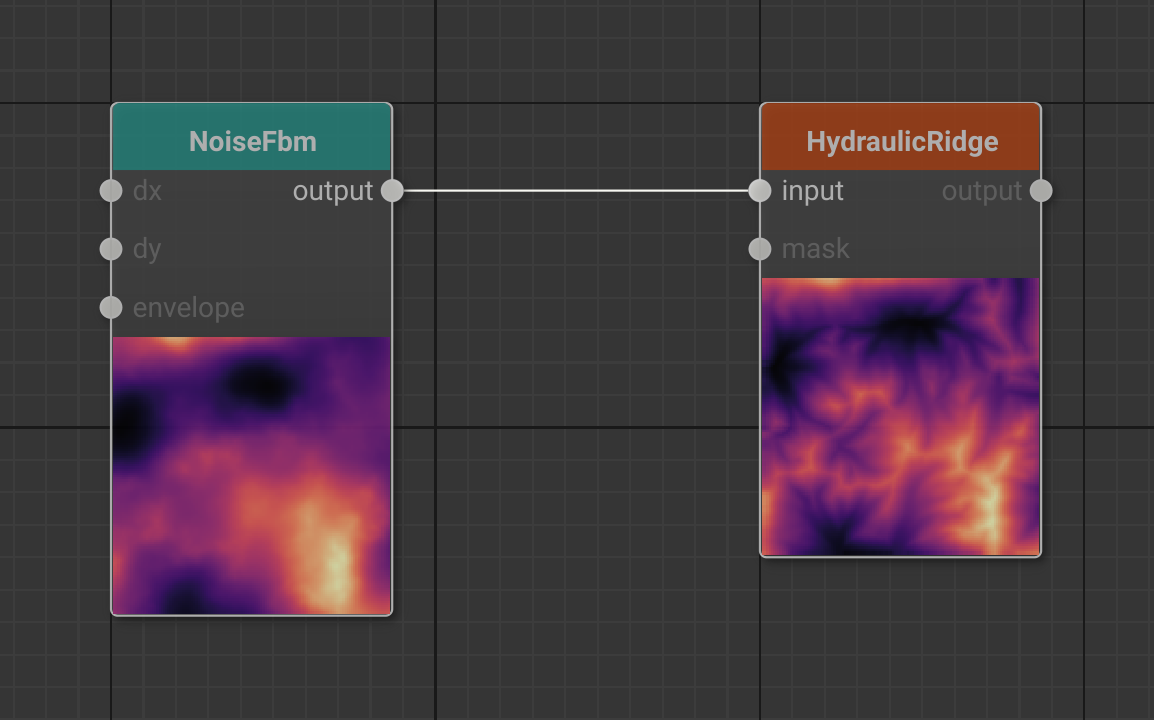
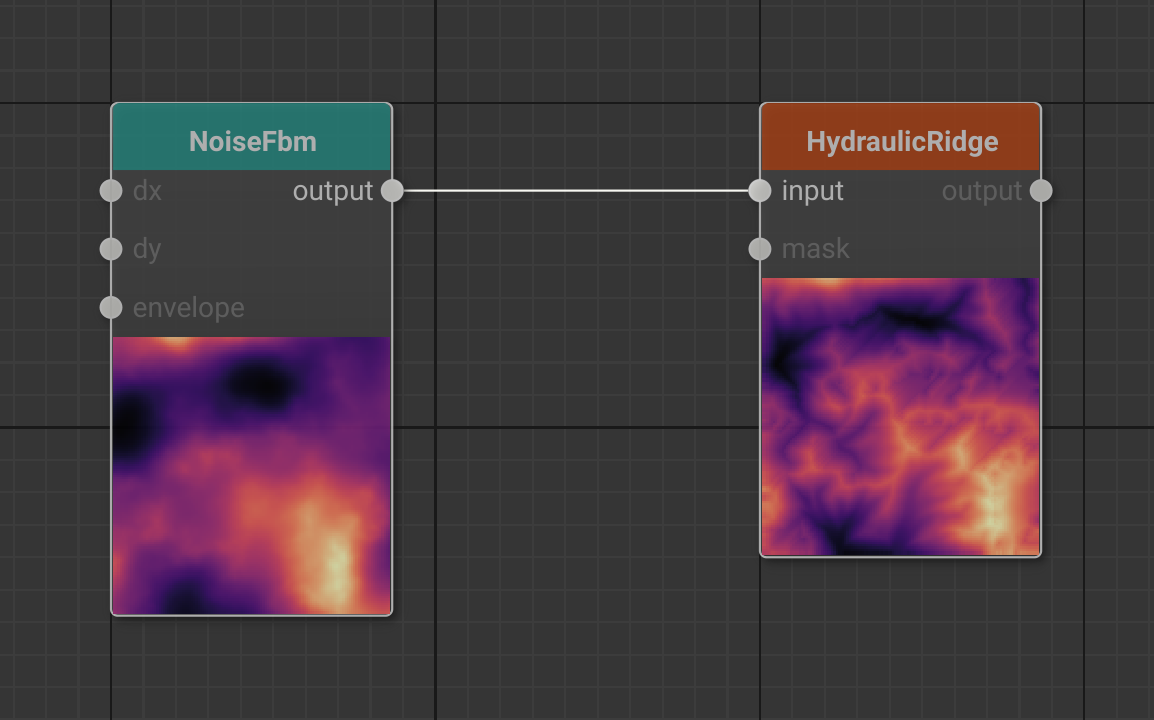
Add PathSDF node

Changed region(s): [[0.6551, 0.3972, 0.9047, 0.7944], [0.8423, 0.3667, 0.8735, 0.3972]]

diff --git a/Hesiod/src/model/nodes/path_sdf.cpp b/Hesiod/src/model/nodes/path_sdf.cpp
@@ -1,0 +1,124 @@
+/* Copyright (c) 2023 Otto Link. Distributed under the terms of the GNU General
+ * Public License. The full license is in the file LICENSE, distributed with
+ * this software. */
+#include "hesiod/model/nodes.hpp"
+
+namespace hesiod
+{
+
+PathSDF::PathSDF(const ModelConfig *p_config) : BaseNode(p_config)
+{
+  LOG_DEBUG("PathSDF::PathSDF");
+
+  // model
+  this->node_caption = "PathSDF";
+
+  // inputs
+  this->input_captions = {"path", "dx", "dy"};
+  this->input_types = {PathData().type(), HeightMapData().type(), HeightMapData().type()};
+
+  // outputs
+  this->output_captions = {"sdf"};
+  this->output_types = {HeightMapData().type()};
+
+  // attributes
+  this->attr["remap"] = NEW_ATTR_BOOL(false);
+  this->attr["inverse"] = NEW_ATTR_BOOL(false);
+
+  this->attr_ordered_key = {"remap", "inverse"};
+
+  // update
+  if (this->p_config->compute_nodes_at_instanciation)
+  {
+    this->out = std::make_shared<HeightMapData>(p_config);
+    this->compute();
+  }
+
+  // documentation
+  this->description = "PathSDF evaluates the signed distance function of a polyline. It "
+                      "assigns a signed distance value to every point in space. For "
+                      "points outside the polyline, the distance is positive, while for "
+                      "points inside, it's negative. The zero level set of this function "
+                      "precisely defines the polyline's path Project path points to an "
+                      "heightmap.";
+
+  this->input_descriptions = {"Input path."};
+  this->output_descriptions = {"Signed distance as an heightmap."};
+}
+
+std::shared_ptr<QtNodes::NodeData> PathSDF::outData(QtNodes::PortIndex /* port_index */)
+{
+  return std::static_pointer_cast<QtNodes::NodeData>(this->out);
+}
+
+void PathSDF::setInData(std::shared_ptr<QtNodes::NodeData> data,
+                        QtNodes::PortIndex                 port_index)
+{
+  if (!data)
+    Q_EMIT this->dataInvalidated(0);
+
+  switch (port_index)
+  {
+  case 0:
+    this->in = std::dynamic_pointer_cast<PathData>(data);
+    break;
+  case 1:
+    this->dx = std::dynamic_pointer_cast<HeightMapData>(data);
+    break;
+  case 2:
+    this->dy = std::dynamic_pointer_cast<HeightMapData>(data);
+  }
+
+  this->compute();
+}
+
+// --- computing
+
+void PathSDF::compute()
+{
+  LOG_DEBUG("computing node [%s]", this->name().toStdString().c_str());
+
+  hmap::Path      *p_path = HSD_GET_POINTER(this->in);
+  hmap::HeightMap *p_dx = HSD_GET_POINTER(this->dx);
+  hmap::HeightMap *p_dy = HSD_GET_POINTER(this->dy);
+
+  if (p_path)
+  {
+    Q_EMIT this->computingStarted();
+
+    hmap::HeightMap *p_out = this->out->get_ref();
+
+    if (p_path->get_npoints() > 1)
+    {
+      hmap::fill(*p_out,
+                 p_dx,
+                 p_dy,
+                 [this, p_path](hmap::Vec2<int>   shape,
+                                hmap::Vec4<float> bbox,
+                                hmap::Array      *p_noise_x,
+                                hmap::Array      *p_noise_y) {
+                   return p_path->to_array_sdf(shape, bbox, p_noise_x, p_noise_y, bbox);
+                 });
+
+      // post-process
+      post_process_heightmap(*p_out,
+                             GET_ATTR_BOOL("inverse"),
+                             false, // smoothing,
+                             0,
+                             false, // saturate
+                             {0.f, 0.f},
+                             0.f,
+                             GET_ATTR_BOOL("remap"),
+                             {0.f, 1.f});
+    }
+    else
+      // fill with zeros
+      hmap::transform(*p_out, [](hmap::Array x) { x = 0.f; });
+
+    // propagate
+    Q_EMIT this->computingFinished();
+    this->trigger_outputs_updated();
+  }
+}
+
+} // namespace hesiod

diff --git a/Hesiod/include/hesiod/model/nodes.hpp b/Hesiod/include/hesiod/model/nodes.hpp
@@ -1608,6 +1608,31 @@ protected:
 };
 
 /**
+ * @brief PathSDF class.
+ */
+class PathSDF : public BaseNode
+{
+public:
+  PathSDF(const ModelConfig *p_config);
+
+  QtNodes::NodeData *get_preview_data() { return this->out.get(); }
+  QtNodes::NodeData *get_viewer2d_data() { return this->out.get(); }
+  QtNodes::NodeData *get_viewer3d_data() { return this->out.get(); }
+  QtNodes::NodeData *get_viewer3d_color() { return this->in.lock().get(); }
+
+  void compute() override;
+
+  std::shared_ptr<QtNodes::NodeData> outData(QtNodes::PortIndex port_index) override;
+
+  void setInData(std::shared_ptr<QtNodes::NodeData> data, QtNodes::PortIndex port_index);
+
+protected:
+  std::weak_ptr<PathData>        in;
+  std::weak_ptr<HeightMapData>   dx, dy;
+  std::shared_ptr<HeightMapData> out;
+};
+
+/**
  * @brief PathToHeightmap class.
  */
 class PathToHeightmap : public BaseNode

diff --git a/Hesiod/src/gui/widgets/hmap_gl_viewer.cpp b/Hesiod/src/gui/widgets/hmap_gl_viewer.cpp
@@ -246,10 +246,12 @@ void HmapGLViewer::set_data(QtNodes::NodeData *new_p_data, QtNodes::NodeData *ne
           path_copy.set_values(1.f);
           hmap::Vec4<float> bbox = hmap::Vec4<float>(0.f, 1.f, 0.f, 1.f);
           path_copy.to_array(c, bbox);
-          c = 1.f - c;
+          // c = 1.f - c;
 
           this->texture_img = generate_selector_image(c);
           this->texture_shape = array.shape;
+
+          hmap::apply_hillshade(this->texture_img, array, 0.f, 1.f, 1.5f, true);
 
           color_done = true;
         }

diff --git a/Hesiod/src/model/model_registry.cpp b/Hesiod/src/model/model_registry.cpp
@@ -77,6 +77,7 @@ std::shared_ptr<QtNodes::NodeDelegateModelRegistry> register_data_models(
   HSD_REGISTER_NODE(hesiod::PathBezierRound, "Geometry/Path");
   HSD_REGISTER_NODE(hesiod::PathBspline, "Geometry/Path");
   HSD_REGISTER_NODE(hesiod::PathFractalize, "Geometry/Path");
+  HSD_REGISTER_NODE(hesiod::PathSDF, "Geometry/Path");
   HSD_REGISTER_NODE(hesiod::PathToHeightmap, "Geometry/Path");
   HSD_REGISTER_NODE(hesiod::Plateau, "Filter/Recurve");
   HSD_REGISTER_NODE(hesiod::QuiltingExpand, "Operator/Expand");

diff --git a/Hesiod/src/model/add_graph_example.cpp b/Hesiod/src/model/add_graph_example.cpp
@@ -97,7 +97,7 @@ QtNodes::NodeId add_graph_example(HsdDataFlowGraphModel *p_model,
   //
   else if (node_type == "PathBezier" || node_type == "PathBspline" ||
            node_type == "PathBezierRound" || node_type == "PathFractalize" ||
-           node_type == "PathToHeightmap")
+           node_type == "PathToHeightmap" || node_type == "PathSDF")
   {
     QtNodes::NodeId node_id1 = p_model->addNode("Path");
     QtNodes::NodeId node_id2 = p_model->addNode(QString::fromStdString(node_type));

diff --git a/docs/node_reference/nodes.md b/docs/node_reference/nodes.md
@@ -2182,6 +2182,37 @@ Geometry/Path
 |seed|Random seed|Random seed number.|
 |sigma|Float|Half-width of the random Gaussian displacement, normalized by the distance between points.|
 
+## PathSDF
+
+
+PathSDF evaluates the signed distance function of a polyline. It assigns a signed distance value to every point in space. For points outside the polyline, the distance is positive, while for points inside, it's negative. The zero level set of this function precisely defines the polyline's path Project path points to an heightmap.
+
+![img](../images/nodes/PathSDF.png)  
+
+### Category
+
+
+Geometry/Path  
+
+### Inputs
+
+|Name|Type|Description|
+| :--- | :--- | :--- |
+|path|PathData|Input path.|
+  
+
+### Outputs
+
+|Name|Type|Description|
+| :--- | :--- | :--- |
+|sdf|HeightMapData|Signed distance as an heightmap.|
+  
+
+### Parameters
+
+|Name|Type|Description|
+| :--- | :--- | :--- |
+
 ## PathToHeightmap
 
 

diff --git a/docs/node_reference/categories.md b/docs/node_reference/categories.md
@@ -18,7 +18,7 @@ Node Categories
 |Filter|Recurve|Gain, GammaCorrection, GammaCorrectionLocal, Plateau, RecurveKura, RecurveS, Saturate|
 |Filter|Smoothing|Laplace, Median3x3, SharpenCone, SmoothCpulse, SmoothFill, SmoothFillHoles, SmoothFillSmearPeaks|
 |Geometry|Cloud|Cloud|
-|Geometry|Path|Path, PathBezier, PathBezierRound, PathBspline, PathFractalize, PathToHeightmap|
+|Geometry|Path|Path, PathBezier, PathBezierRound, PathBspline, PathFractalize, PathSDF, PathToHeightmap|
 |IO|Files|ExportAsset, ExportHeightmap, ExportNormalMap, ExportTexture, ImportHeightmap|
 |Mask|Adjust|ScanMask|
 |Mask|Selector|SelectCavities, SelectGt, SelectInterval, SelectPulse|
